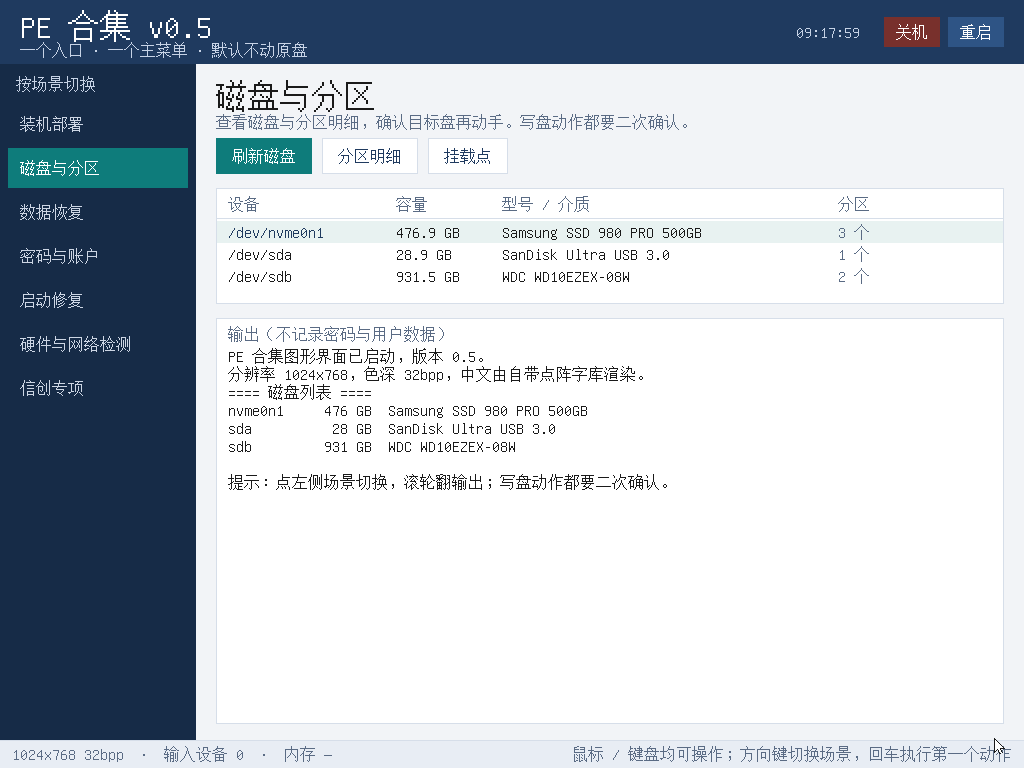
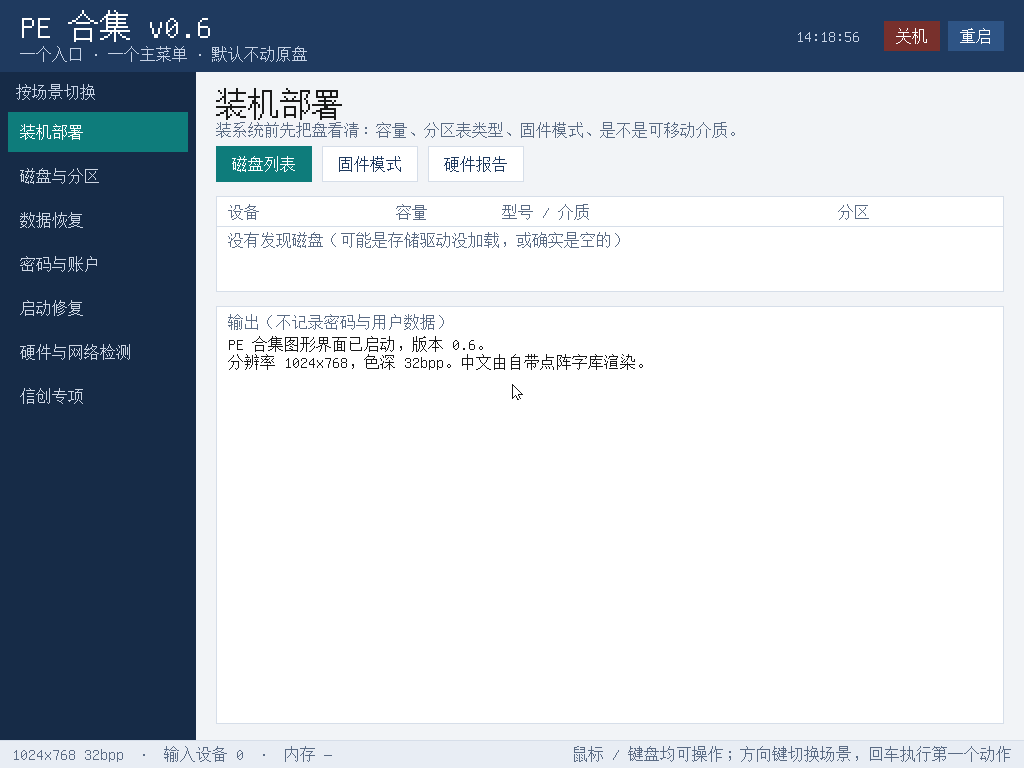
docs: v0.6 —— 界面截图更新，场景能力写实
- 英雄图换成 v0.6 界面
- 新增密码与账户场景截图
- 场景表按代码实际能力重写：分区表类型、固件模式、离线重置密码、两步挂载

diff --git a/README.md b/README.md
@@ -37,13 +37,20 @@ sudo dd if=pe-bootable-vX.Y.iso of=/dev/sdX bs=4M status=progress oflag=sync
 
 | 场景 | 能干什么 |
 | --- | --- |
-| 装机部署 | 装系统前看清磁盘、固件模式（UEFI/BIOS）、引导现状 |
-| 磁盘与分区 | 磁盘 / 分区 / 卷只读枚举，分区表类型、容量、挂载点 |
-| 数据恢复 | 坏盘先做只读镜像的完整流程，写盘类操作一律二次确认 |
-| 密码与账户 | 离线重置 Linux 账户密码（chntpw 路线另说） |
-| 启动修复 | 麒麟 / 统信 UOS 的 grub 修复，先备份再修，修坏了能退 |
+| 装机部署 | 磁盘列表、固件模式（UEFI/Legacy、Boot 变量数、ESP 是否挂载）、硬件报告 |
+| 磁盘与分区 | 磁盘 / 分区只读枚举、**分区表类型（GPT / MBR / 保护性 MBR / 裸盘）**、挂载点、把目标根分区挂到 `/mnt/target` |
+| 数据恢复 | 只读镜像与分区表备份的完整命令，只打印不代跑 |
+| 密码与账户 | **离线重置 Linux 账户密码**：随机临时密码、写前备份 `shadow`、写后读回校验 |
+| 启动修复 | 启动模式检查、ESP 分区定位、grub 修复干跑（先备份再动手） |
 | 硬件与网络检测 | CPU、内存、磁盘、网卡、固件模式一次看全 |
 | 信创专项 | 识别麒麟 / 统信环境与版本，给出对应处置建议 |
+
+挂载目标盘这件事是**两步**：先只读挂载，只有在里面找到 `/etc/passwd`、确认像系统根分区，
+才会问你要不要改成可写。挂错盘最多白挂一次，不会写坏数据。
+
+密码与账户场景长这样（重置密码要二次确认，改前自动备份 `shadow`，新密码只显示一次、不写日志）：
+
+![密码与账户](images/linux-pe-password.png)
 
 设计取向是**保守**：只读优先，写盘必须二次确认，拿不准的操作只打印命令给你看、不替你执行。
 现场点错一个盘的代价不可逆，这个 PE 宁可少做一步。
